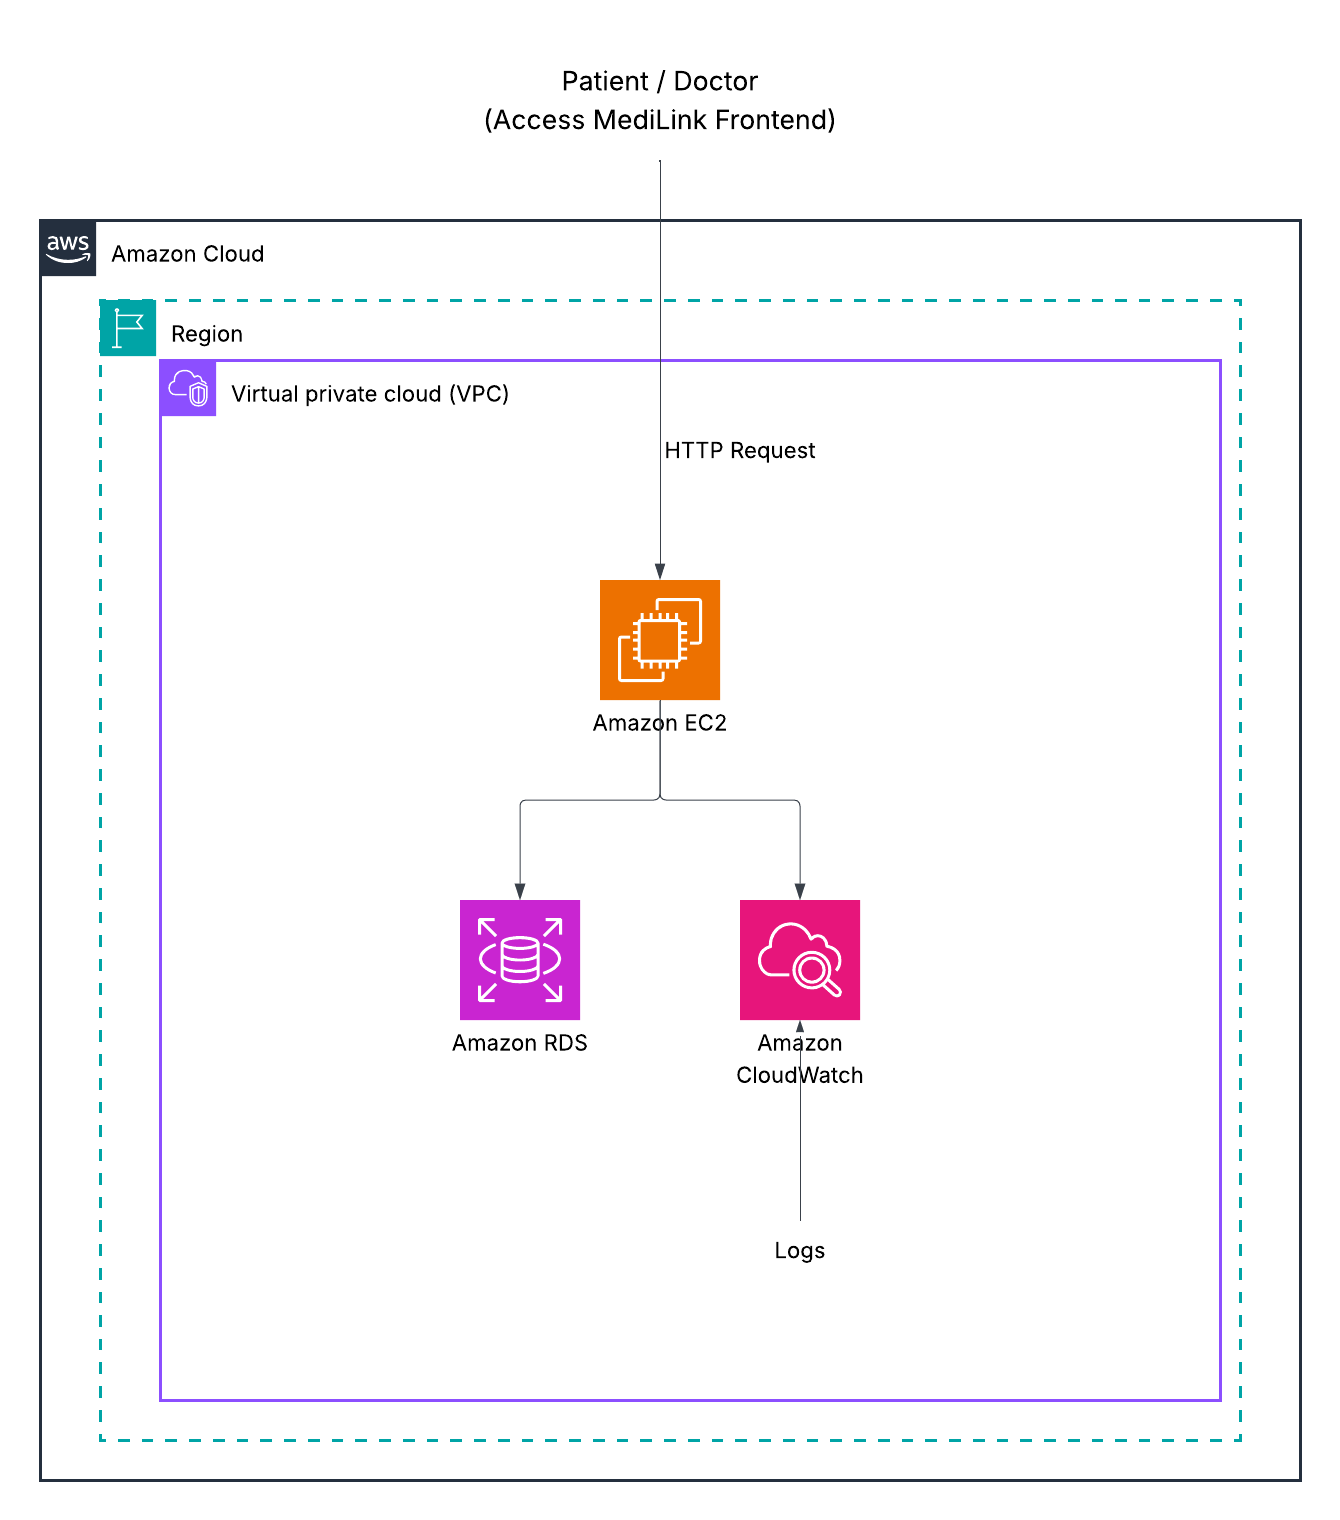
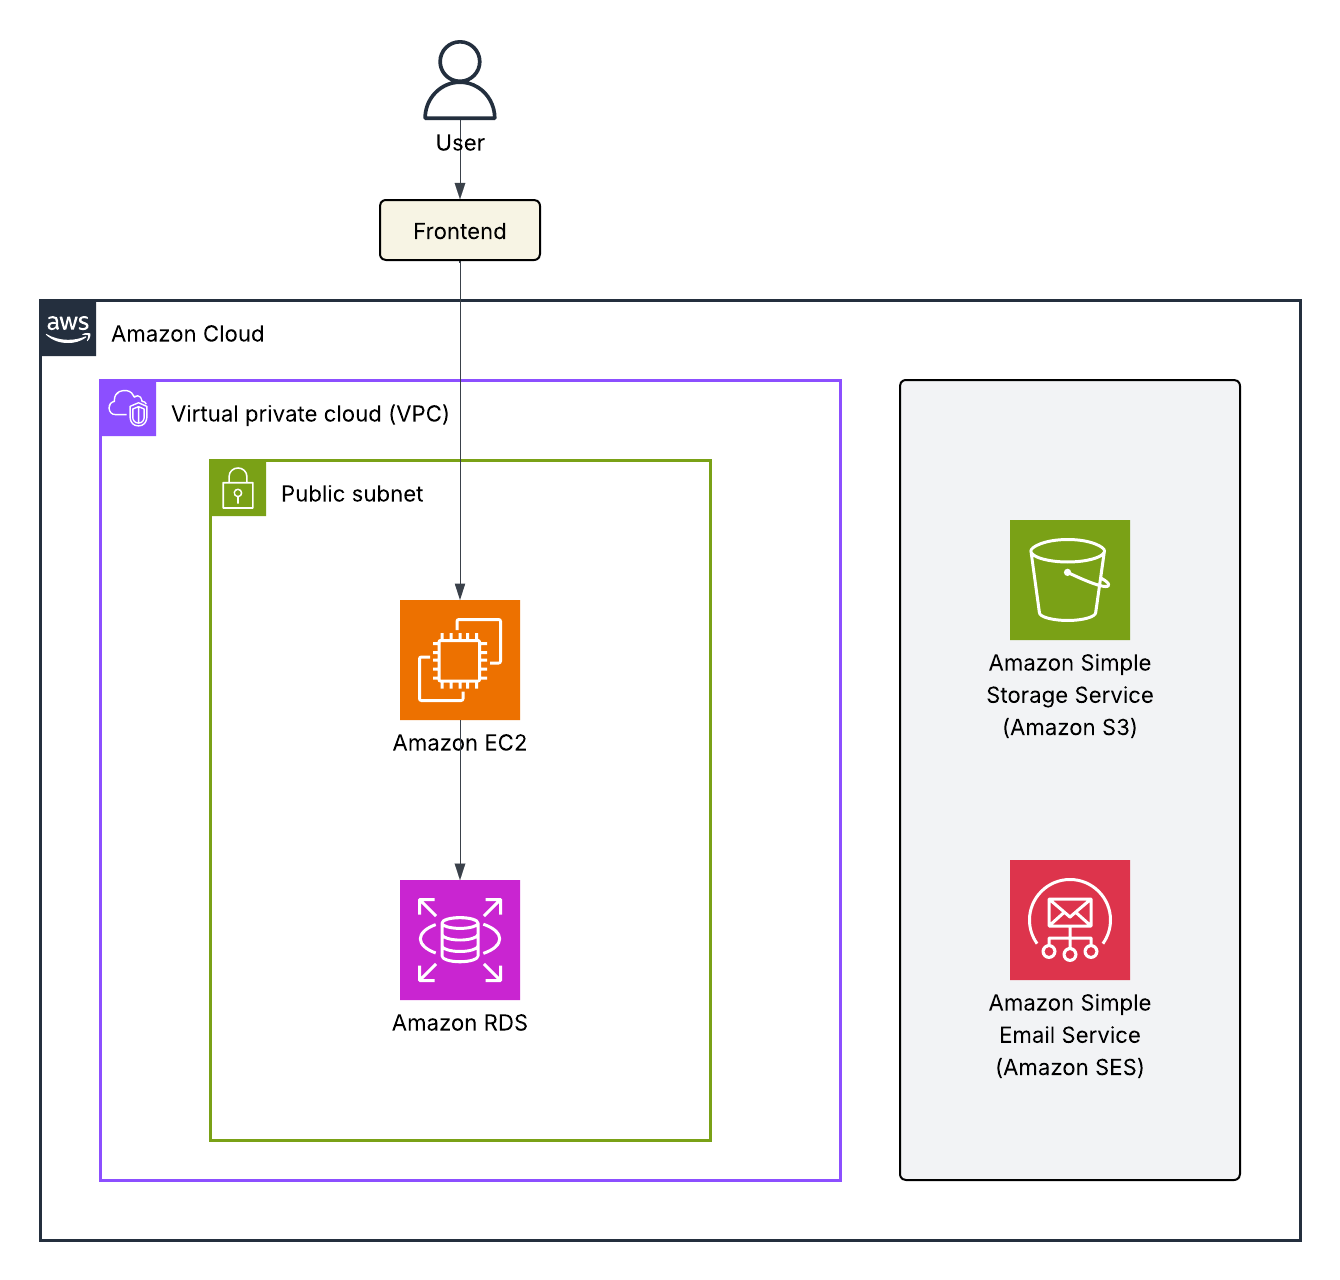
docs: update documentation

diff --git a/site/technical/appointment_booking/index.html b/site/technical/appointment_booking/index.html
@@ -257,28 +257,28 @@
 
   Note over Doctor,Backend: Doctor reviews and acts
   Doctor-&gt;&gt;UI: Click Approve / Reject
-  UI-&gt;&gt;Backend: POST /appointments/{id}/action {action: "approve"|"reject"}
+  UI-&gt;&gt;Backend: PATCH /appointments/{id}/action {action: "approve"|"reject"}
   alt Approve
     Backend-&gt;&gt;DB: UPDATE appointment.status="Approved"
     Backend-&gt;&gt;DB: UPDATE slot.status="Confirmed" (color=Green)
-    Backend--&gt;&gt;UI: 200 {message: "Approved"}
+    Backend--&gt;&gt;UI: 200 {message: "Approved successfully"}
     UI--&gt;&gt;Doctor: Show success
   else Reject
     Backend-&gt;&gt;DB: UPDATE appointment.status="Rejected"
     Backend-&gt;&gt;DB: UPDATE slot.status="Busy" (color=Grey)
-    Backend--&gt;&gt;UI: 200 {message: "Rejected"}
-    UI--&gt;&gt;Doctor: Show "Doctor busy" message
+    Backend--&gt;&gt;UI: 200 {message: "Rejected successfully"}
+    UI--&gt;&gt;Doctor: Show "Doctor unavailable" message
   end
 
   Note over Backend,DB: When pending slot passes time threshold
   UI-&gt;&gt;Backend: GET /appointments/{patient_id} (on dashboard refresh)
-  Backend-&gt;&gt;DB: SELECT appointment WHERE status="Pending" AND slot_time &lt; now()
+  Backend-&gt;&gt;DB: SELECT appointment WHERE status="Pending"
   alt expired pending found
     Backend-&gt;&gt;DB: UPDATE appointment.status="Rejected"
     Backend-&gt;&gt;DB: UPDATE slot.status="Busy" (color=Grey)
     DB--&gt;&gt;Backend: OK
-    Backend--&gt;&gt;UI: 200 {message:"Doctor busy, please book another slot"}
-    UI--&gt;&gt;Patient: Show message: "Doctor busy, please book another slot"
+    Backend--&gt;&gt;UI: 200 {message:"Doctor unavailable, please book another slot"}
+    UI--&gt;&gt;Patient: Show message: "Doctor unavailable, please book another slot"
 
   end
 </div>

diff --git a/site/technical/AWS/index.html b/site/technical/AWS/index.html
@@ -612,10 +612,8 @@
 <ul>
 <li><strong>Amazon EC2 (Elastic Compute Cloud):</strong> Hosts the MediLink backend (FastAPI application) and serves incoming HTTP requests from users.  </li>
 <li><strong>Amazon RDS (Relational Database Service):</strong> Stores all MediLink data, including user accounts, doctor details, appointment records, and slot information, ensuring reliability and automatic backups.  </li>
-<li><strong>Amazon CloudWatch:</strong> Monitors system performance, logs API activity, and provides real-time insights into server health and database metrics.  </li>
 </ul>
-<p>This architecture ensures <strong>scalability, security, and continuous monitoring</strong>, enabling MediLink to deliver a reliable healthcare service experience for both patients and doctors.</p>
-<p><img alt="Architecture diagram" src="../../images/aws.png" /></p>
+<p><img alt="Architecture diagram" src="../../images/AWS.png" /></p>
 
 
 

diff --git a/docs/technical/appointment_booking.md b/docs/technical/appointment_booking.md
@@ -34,28 +34,28 @@ sequenceDiagram
 
   Note over Doctor,Backend: Doctor reviews and acts
   Doctor->>UI: Click Approve / Reject
-  UI->>Backend: POST /appointments/{id}/action {action: "approve"|"reject"}
+  UI->>Backend: PATCH /appointments/{id}/action {action: "approve"|"reject"}
   alt Approve
     Backend->>DB: UPDATE appointment.status="Approved"
     Backend->>DB: UPDATE slot.status="Confirmed" (color=Green)
-    Backend-->>UI: 200 {message: "Approved"}
+    Backend-->>UI: 200 {message: "Approved successfully"}
     UI-->>Doctor: Show success
   else Reject
     Backend->>DB: UPDATE appointment.status="Rejected"
     Backend->>DB: UPDATE slot.status="Busy" (color=Grey)
-    Backend-->>UI: 200 {message: "Rejected"}
-    UI-->>Doctor: Show "Doctor busy" message
+    Backend-->>UI: 200 {message: "Rejected successfully"}
+    UI-->>Doctor: Show "Doctor unavailable" message
   end
 
   Note over Backend,DB: When pending slot passes time threshold
   UI->>Backend: GET /appointments/{patient_id} (on dashboard refresh)
-  Backend->>DB: SELECT appointment WHERE status="Pending" AND slot_time < now()
+  Backend->>DB: SELECT appointment WHERE status="Pending"
   alt expired pending found
     Backend->>DB: UPDATE appointment.status="Rejected"
     Backend->>DB: UPDATE slot.status="Busy" (color=Grey)
     DB-->>Backend: OK
-    Backend-->>UI: 200 {message:"Doctor busy, please book another slot"}
-    UI-->>Patient: Show message: "Doctor busy, please book another slot"
+    Backend-->>UI: 200 {message:"Doctor unavailable, please book another slot"}
+    UI-->>Patient: Show message: "Doctor unavailable, please book another slot"
 
   end
 ```

diff --git a/docs/technical/AWS.md b/docs/technical/AWS.md
@@ -7,11 +7,10 @@ When a **Patient or Doctor** accesses the MediLink frontend, their HTTP requests
 
 - **Amazon EC2 (Elastic Compute Cloud):** Hosts the MediLink backend (FastAPI application) and serves incoming HTTP requests from users.  
 - **Amazon RDS (Relational Database Service):** Stores all MediLink data, including user accounts, doctor details, appointment records, and slot information, ensuring reliability and automatic backups.  
-- **Amazon CloudWatch:** Monitors system performance, logs API activity, and provides real-time insights into server health and database metrics.  
 
-This architecture ensures **scalability, security, and continuous monitoring**, enabling MediLink to deliver a reliable healthcare service experience for both patients and doctors.
 
-![Architecture diagram](../images/aws.png)
+
+![Architecture diagram](../images/AWS.png)
 
 
 
